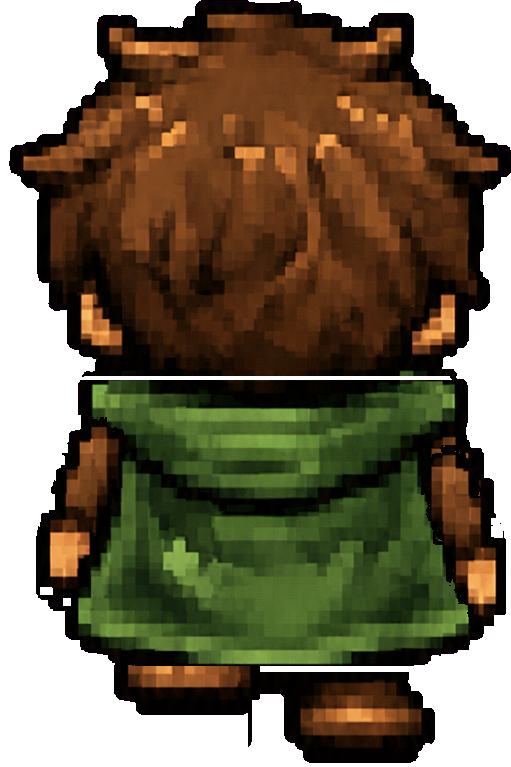
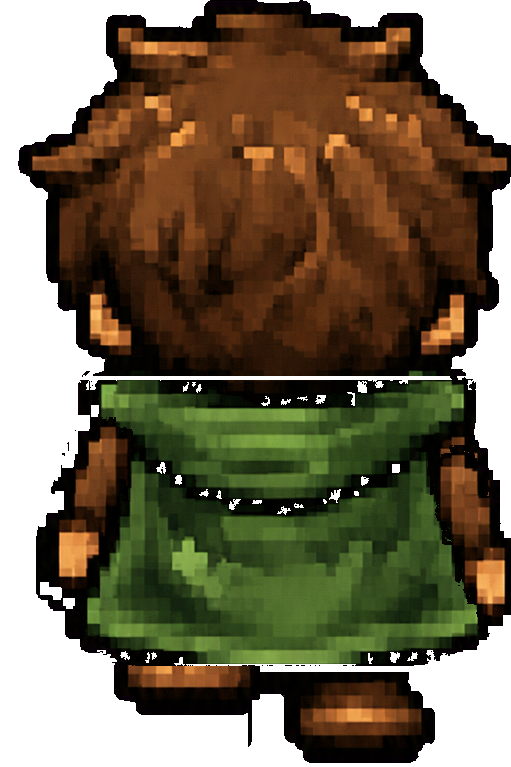
Increase Delver walk-up body sway

diff --git a/js/screens.js b/js/screens.js
@@ -126,7 +126,7 @@ function easeOutBounce(x) {
 // top, bounces to a stop with a little screen-shake + thud, a shine sweeps
 // across it, then the rest of the screen fades in.
 // build stamp — bump this to the deploy time (Arizona/Phoenix time) on each update
-const BUILD_STAMP = '7/25/2026 5:38pm (mst)';
+const BUILD_STAMP = '7/25/2026 5:55pm (mst)';
 
 const ScreenTitle = {
   FALL: 0.85, SHINE_DELAY: 0.12, SHINE_DUR: 0.6,

diff --git a/scripts/fix_player_walk_up.py b/scripts/fix_player_walk_up.py
@@ -58,6 +58,60 @@ def replace_stationary_head(frame, idle, dx, dy):
     return result
 
 
+def cape_mask(image, box):
+    """Select the green torso/cape plus its dark pixel outline."""
+    crop = image.crop(box)
+    seed = Image.new("L", crop.size)
+    seed_pixels = seed.load()
+    source = crop.load()
+    for y in range(crop.height):
+        for x in range(crop.width):
+            red, green, blue, alpha = source[x, y]
+            if (
+                alpha >= 32
+                and green >= 38
+                and green > red * 1.12
+                and green > blue * 1.06
+            ):
+                seed_pixels[x, y] = 255
+
+    nearby = seed.filter(ImageFilter.MaxFilter(25))
+    near_pixels = nearby.load()
+    mask = Image.new("L", crop.size)
+    mask_pixels = mask.load()
+    for y in range(crop.height):
+        for x in range(crop.width):
+            red, green, blue, alpha = source[x, y]
+            is_cape_outline = (
+                near_pixels[x, y]
+                and alpha > 0
+                and max(red, green, blue) < 90
+                and not (red > green * 1.16 and red > blue * 1.14)
+            )
+            if seed_pixels[x, y] or is_cape_outline:
+                mask_pixels[x, y] = alpha
+    return mask
+
+
+def replace_cape(frame, idle, dx, dy):
+    """Move the clean torso/cape as one rigid shape without resampling."""
+    result = frame.copy()
+    box = (35, 360, 480, 670)
+    x0, y0, x1, y1 = box
+    old_mask = cape_mask(result, box)
+    old_pixels = old_mask.load()
+    result_pixels = result.load()
+    for local_y in range(y1 - y0):
+        for local_x in range(x1 - x0):
+            if old_pixels[local_x, local_y]:
+                result_pixels[x0 + local_x, y0 + local_y] = (0, 0, 0, 0)
+
+    clean_cape = idle.crop(box)
+    clean_cape.putalpha(cape_mask(idle, box))
+    result.alpha_composite(clean_cape, (x0 + dx, y0 + dy))
+    return result
+
+
 def arm_mask(image, box):
     """Select arm/hand colors plus their dark outline, excluding green cape."""
     x0, y0, x1, y1 = box
@@ -324,13 +378,18 @@ def main():
         close_tiny_arm_seams(
             replace_generated_arms(
                 replace_stationary_head(
-                    Image.open(BACKUP / "frame_02.png").convert("RGBA"),
+                    replace_cape(
+                        Image.open(BACKUP / "frame_02.png").convert("RGBA"),
+                        idle,
+                        14,
+                        -6,
+                    ),
                     idle,
-                    5,
+                    14,
                     -4,
                 ),
                 idle,
-                5,
+                14,
                 -14,
                 14,
             ),
@@ -339,13 +398,18 @@ def main():
         close_tiny_arm_seams(
             replace_generated_arms(
                 replace_stationary_head(
-                    Image.open(BACKUP / "frame_04.png").convert("RGBA"),
+                    replace_cape(
+                        Image.open(BACKUP / "frame_04.png").convert("RGBA"),
+                        idle,
+                        -14,
+                        -6,
+                    ),
                     idle,
-                    -5,
+                    -14,
                     -4,
                 ),
                 idle,
-                -5,
+                -14,
                 14,
                 -14,
             ),
@@ -384,7 +448,7 @@ def main():
     sheet.save(DRAFT / "sprite_sheet_progress.png", optimize=True)
 
     print("Walk-up frames repaired and sheet rebuilt.")
-    print("Head offsets: frame 2 = (+5, -4), frame 4 = (-5, -4).")
+    print("Body offsets: frame 2 = (+14, -6), frame 4 = (-14, -6).")
     print("Isolated transparent/weak-alpha defects: 0 in all frames.")
 
 
